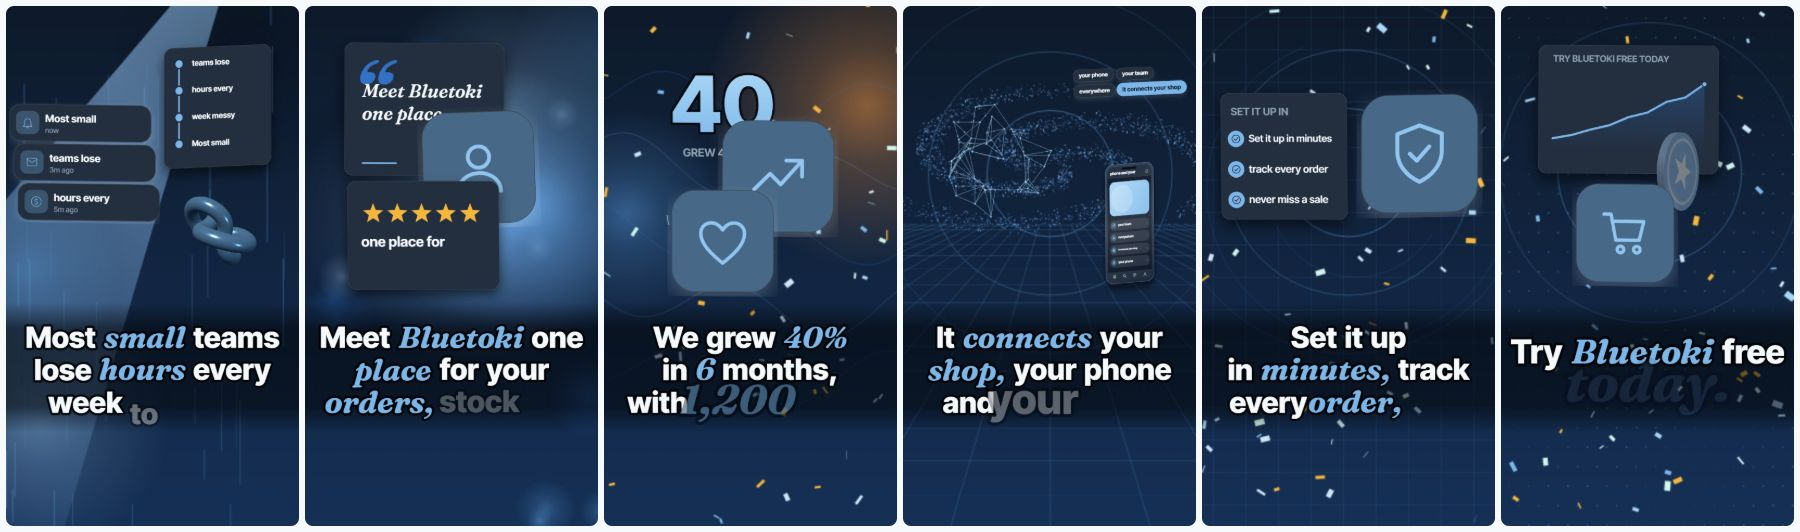
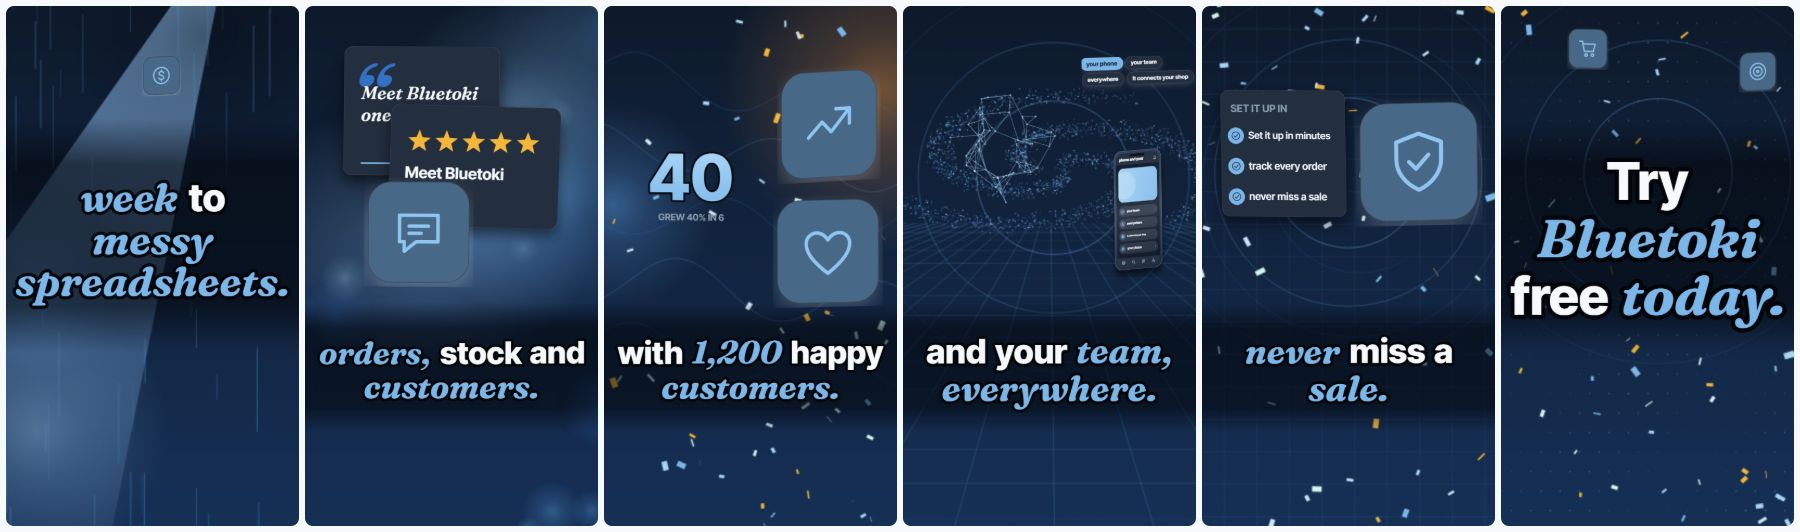
docs: refreshed visual gallery (words landed, all ten layouts)
What: gallery images regenerated from the corrected plans, sampled just before each scene ends so the words have landed; a sheet of all ten layouts forced on one beat.
Why: the old images showed words mid-animation and the planner's earlier bug.
Files: docs/img/visual-{light,dark,landscape,layouts}.jpg, docs/VISUAL.md, scripts/visual.ts.
Tested: n/a (images checked by eye).

diff --git a/packages/engine/scripts/visual.ts b/packages/engine/scripts/visual.ts
@@ -68,7 +68,7 @@ if (cmd === 'audit') {
 } else if (cmd === 'stills') {
   const sess = await openFilm(plan, { scale: 0.5 });
   console.log('renderer:', sess.info.renderer, `${sess.info.rw}x${sess.info.rh}`);
-  for (const s of plan.scenes) { const n = Math.round((s.start + Math.min(2.6, (s.end - s.start) * 0.62)) * plan.fps); const t0 = performance.now(); writeFileSync(join(dir, `scene-${s.i}.jpg`), await sess.frame(n)); console.log(`scene ${s.i} frame ${n}: ${(performance.now() - t0).toFixed(0)} ms`); }
+  for (const s of plan.scenes) { const n = Math.round((s.end - 0.45) * plan.fps); const t0 = performance.now(); writeFileSync(join(dir, `scene-${s.i}.jpg`), await sess.frame(n)); console.log(`scene ${s.i} frame ${n}: ${(performance.now() - t0).toFixed(0)} ms`); }
   await sess.close();
 } else {
   const out = join(dir, `film-${format}-${theme}.mp4`);

diff --git a/docs/VISUAL.md b/docs/VISUAL.md
@@ -6,6 +6,10 @@ Every second of a film moves, every scene has several things on screen at differ
 ![Dark, vertical](img/visual-dark.jpg)
 ![Light, landscape](img/visual-landscape.jpg)
 
+All ten layouts, forced on the same beat:
+
+![The layouts](img/visual-layouts.jpg)
+
 ## What a film is
 
 `script lines + the voice's word times → beats → planFilm → a plan (JSON) → frames → mp4`
